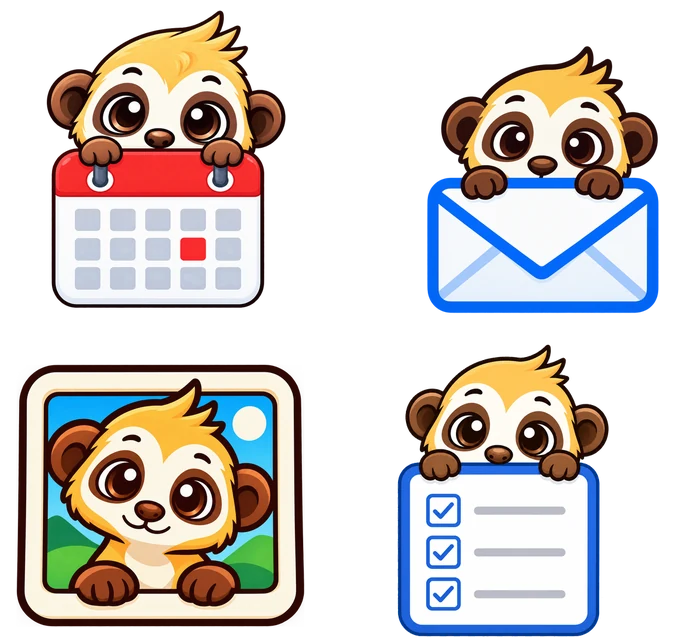
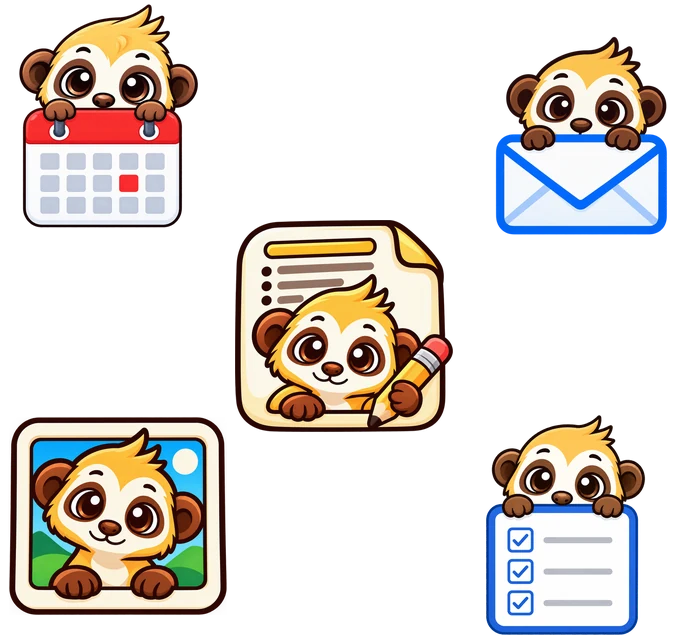
Adds meerpad

diff --git a/public/index.html b/public/index.html
@@ -4,7 +4,7 @@
   <meta charset="utf-8" />
   <meta name="viewport" content="width=device-width, initial-scale=1, viewport-fit=cover" />
   <title>meerverse: tools for people who have too much of everything</title>
-  <meta name="description" content="meerverse is the meer* family of open-source, self-hostable apps: meercal for calendars, meerail for mail, meerato for tasks and meerpic for photos, each keeping your data in PostgreSQL. meerink and meerpad are on the way." />
+  <meta name="description" content="meerverse is the meer* family of open-source, self-hostable apps: meercal for calendars, meerail for mail, meerato for tasks, meerpic for photos and meerpad for notes, each keeping your data in PostgreSQL. meerink is on the way." />
   <meta name="theme-color" content="#2185d0" />
   <link rel="canonical" href="https://meerverse.com/" />
   <link rel="icon" type="image/png" sizes="32x32" href="/img/brand-32.png" />
@@ -16,7 +16,7 @@
   <meta property="og:site_name" content="meerverse" />
   <meta property="og:url" content="https://meerverse.com/" />
   <meta property="og:title" content="meerverse: tools for people who have too much of everything" />
-  <meta property="og:description" content="Mail, calendar, tasks and photos from one family of open-source meerkats. Everything in PostgreSQL, everything on GitHub." />
+  <meta property="og:description" content="Mail, calendar, tasks, photos and notes from one family of open-source meerkats. Everything in PostgreSQL, everything on GitHub." />
   <meta property="og:image" content="https://meerverse.com/img/og.jpg" />
   <meta property="og:image:width" content="1200" />
   <meta property="og:image:height" content="630" />
@@ -89,6 +89,20 @@
           "license": "https://www.gnu.org/licenses/agpl-3.0.html",
           "sameAs": ["https://github.com/ribalba/meerpic"]
         }
+      },
+      {
+        "@type": "ListItem",
+        "position": 5,
+        "item": {
+          "@type": "SoftwareApplication",
+          "name": "meerpad",
+          "url": "https://meerpad.com/",
+          "description": "A notes app built for hardcore users with a lot of projects: a workspace per project, each a tree of pages built from blocks and databases, text written in meerail's Markdown, fast search across thousands of pages, offline-first sync across devices, share links to read or to edit, and publishing any page as a website on your own domain. Hosted at meerpad.com or self-hosted.",
+          "applicationCategory": "ProductivityApplication",
+          "isAccessibleForFree": true,
+          "license": "https://www.gnu.org/licenses/agpl-3.0.html",
+          "sameAs": ["https://github.com/ribalba/meerpad"]
+        }
       }
     ]
   }
@@ -125,12 +139,13 @@
     <!-- Hero -->
     <section class="landing-hero">
       <img src="/img/family.webp" width="680" height="640" class="landing-logo is-family"
-           alt="Four cartoon meerkats: one peeking over a calendar, one over an envelope, one out of a picture frame and one over a checklist." />
+           alt="Five cartoon meerkats: one peeking over a calendar, one over an envelope, one out of a picture frame, one over a checklist and, in the middle, one holding a pencil in front of a page of notes." />
       <div class="landing-hero-copy">
         <h1 class="landing-title">Tools for people who have too much of&nbsp;everything.</h1>
         <p class="landing-subtitle">
           Twenty calendars, a mailbox ten years deep, a to-do list for every part
-          of your life and a photo library too big for any photo app. The meer* apps
+          of your life, a photo library too big for any photo app and notes in more
+          places than you can remember. The meer* apps
           are a family of open-source programs, one for each of those, built for
           the person the defaults stopped working for. Everything lands in
           PostgreSQL, where you can query it. Each app stands on its own, and
@@ -147,7 +162,7 @@
     <section id="apps" class="landing-features">
       <h2 class="landing-section-title">The apps</h2>
       <p class="landing-section-lede">
-        Four programs you can run today. Each has its own site and its own
+        Five programs you can run today. Each has its own site and its own
         repository, and all of them are open source under the AGPL.
       </p>
 
@@ -270,6 +285,39 @@
             </div>
           </div>
         </article>
+        <article class="landing-card landing-app">
+          <div class="landing-card-body">
+            <div class="landing-app-head">
+              <img class="landing-app-logo" src="/img/apps/meerpad.webp" width="192" height="187" alt="" />
+              <div>
+                <span class="landing-app-kind">Notes</span>
+                <h3>meerpad <span class="landing-badge">New</span></h3>
+              </div>
+            </div>
+            <p class="landing-app-tagline">A notes app built for hardcore users with a lot of projects.</p>
+            <p>
+              Made for people who write everything down, for every project they
+              run. Each project gets a workspace, each workspace a tree of pages
+              as deep as the work needs, and a page holds text, to-dos, tables,
+              files and whole databases, written in the same Markdown as meerail.
+              Thousands of pages stay fast and searchable, even offline: a copy of
+              all of it lives on your device and syncs when you are back. Share a
+              page by link to read or to edit, publish any page as a website on
+              your own domain or at <em>name</em>.meerpad.com, and bring an
+              existing workspace along from a Markdown and CSV export, databases
+              and files included.
+            </p>
+            <div class="landing-chips">
+              <span class="landing-chip"><i class="sitemap icon"></i>A workspace per project</span>
+              <span class="landing-chip"><i class="search icon"></i>Thousands of pages, searchable</span>
+              <span class="landing-chip"><i class="globe icon"></i>Publish as a website</span>
+            </div>
+            <div class="landing-app-links">
+              <a href="https://meerpad.com" target="_blank" rel="noopener"><i class="globe icon"></i>meerpad.com</a>
+              <a href="https://github.com/ribalba/meerpad" target="_blank" rel="noopener"><i class="github icon"></i>ribalba/meerpad</a>
+            </div>
+          </div>
+        </article>
       </div>
 
       <!-- One wide screenshot per app, as a tour. The controls are built by the
@@ -316,6 +364,21 @@
                       data-caption="&lt;strong&gt;meerato, all tasks.&lt;/strong&gt; Buckets for work, home, the sports club and the kids' school down the side; every task with its status and bucket, subtasks nested under their parent, and a quick-add bar that takes a whole task in one line.">
                 <img src="/img/screenshots/meerato-overview.webp" width="1355" height="847" loading="lazy" decoding="async"
                      alt="The meerato task list: status and bucket filters in the sidebar, and a list of tasks with nested subtasks, each tagged with a status and a bucket." />
+                <span class="landing-shot-zoom"><i class="expand icon"></i></span>
+              </button>
+            </li>
+
+            <li class="landing-slide" data-label="meerpad"
+                data-note="meerpad: a page of blocks in the Farm workspace, the page tree beside it and one search bar for every page and its text.">
+              <button type="button" class="landing-shot-btn"
+                      data-full="/img/screenshots/meerpad-page.webp"
+                      data-full-dark="/img/screenshots/meerpad-page-dark.webp"
+                      data-caption="&lt;strong&gt;meerpad, a page.&lt;/strong&gt; Workspaces for work, the house and the farm, each a tree of pages; a page of blocks with to-dos, a callout, Markdown written as you type it and a highlighted code block, and one search bar across the top for every page and its text.">
+                <picture>
+                  <source srcset="/img/screenshots/meerpad-page-dark.webp" media="(prefers-color-scheme: dark)" />
+                  <img src="/img/screenshots/meerpad-page.webp" width="2880" height="1800" loading="lazy" decoding="async"
+                       alt="The meerpad window: workspaces and a page tree in the sidebar, and a page with a cover, a heading, to-dos, a callout and a code block." />
+                </picture>
                 <span class="landing-shot-zoom"><i class="expand icon"></i></span>
               </button>
             </li>
@@ -412,7 +475,7 @@
             <div class="landing-card-icon"><i class="database icon"></i></div>
             <h3>Postgres as the store, not a cache</h3>
             <p>
-              Mail, events, tasks and photo metadata live in a real PostgreSQL
+              Mail, events, tasks, notes and photo metadata live in a real PostgreSQL
               database rather than a format of the app's own. <code>psql</code>
               can answer questions no app exposes, and so can an AI tool you
               point at it.
@@ -490,8 +553,8 @@
             <p>
               All of it is AGPL and on GitHub, and the install is Docker Compose:
               for meerail and meercal, one script that asks what it needs and
-              pulls the published images. meerato is also a hosted service, if
-              you would rather not run anything at all.
+              pulls the published images. meerato and meerpad are also hosted
+              services, if you would rather not run anything at all.
             </p>
           </div>
         </article>
@@ -502,7 +565,7 @@
     <section id="soon" class="landing-features">
       <h2 class="landing-section-title">Coming soon</h2>
       <p class="landing-section-lede">
-        Two more meerkats are on their way.
+        One more meerkat is on its way.
       </p>
 
       <div class="landing-apps">
@@ -534,37 +597,14 @@
             </div>
           </div>
         </article>
-
-        <article class="landing-card landing-app is-soon">
-          <div class="landing-card-body">
-            <div class="landing-app-head">
-              <img class="landing-app-logo" src="/img/apps/meerpad.webp" width="192" height="187" alt="" />
-              <div>
-                <span class="landing-app-kind">Writing</span>
-                <h3>meerpad <span class="landing-badge is-soon">Coming soon</span></h3>
-              </div>
-            </div>
-            <p class="landing-app-tagline">The writing tool you always wanted.</p>
-            <p>
-              For the quick note, the long document and everything in between,
-              in one place. It comes from the family that keeps your words in a
-              database you can query and lets you do everything from the
-              keyboard.
-            </p>
-            <div class="landing-app-links">
-              <a href="https://meerpad.com" target="_blank" rel="noopener"><i class="globe icon"></i>meerpad.com</a>
-              <a href="https://github.com/ribalba/meerpad" target="_blank" rel="noopener"><i class="github icon"></i>ribalba/meerpad</a>
-            </div>
-          </div>
-        </article>
       </div>
     </section>
 
     <footer class="landing-footer">
       <p>
         <strong>meerverse</strong> is the meer* universe: a family of
-        open-source meerkats for mail, calendars, tasks and photos, with a
-        network and a writing tool on the way.
+        open-source meerkats for mail, calendars, tasks, photos and notes,
+        with a network on the way.
       </p>
       <p class="landing-footer-apps">
         <a href="https://meercal.com" target="_blank" rel="noopener"><img src="/img/apps/meercal.webp" width="155" height="192" alt="" />meercal</a>

diff --git a/tools/build_assets.py b/tools/build_assets.py
@@ -3,8 +3,9 @@
 
 The meerverse site owns no artwork of its own yet: every logo and screenshot
 belongs to one of the apps, and this pulls them in from checkouts that sit next
-to this repo (../meercal, ../meerail, ../meerato, ../meeroto, ../meerink), so a
+to this repo (../meercal, ../meerail, ../meerato, ../meerpic, ../meerink), so a
 new logo or a re-shot screenshot there is one command away from being here.
+meerpad joined them (../meerpad).
 
     python3 tools/build_assets.py
 
@@ -29,15 +30,14 @@ OUT = ROOT / "public" / "img"
 # Which picture stands for each app: the small in-app logo, the meerkat peeking
 # over the thing the app is about, not the full-body one some websites use in
 # their hero. meerink's logo-square sits on a coloured tile, so its plain logo
-# is used instead. meerpad has no checkout to take its logo from yet, so its
-# source lives in this repo (an absolute path wins over CODE when joined).
+# is used instead.
 LOGOS = {
     "meercal": "meercal/website/public/img/logo-square.png",
     "meerail": "meerail/app/static/img/logo-square.png",
     "meerato": "meerato/app/static/logo-512.png",
-    "meerpic": "meeroto/app/static/img/logo.png",
+    "meerpic": "meerpic/app/static/img/logo.png",
     "meerink": "meerink/app/static/img/logo.png",
-    "meerpad": ROOT / "assets" / "meerpad.png",
+    "meerpad": "meerpad/app/static/img/logo.png",
 }
 
 # (output name, source, dark source or None). Screenshots are 2880x1800 in the
@@ -47,6 +47,8 @@ SHOTS = [
      "meercal/website/public/img/screenshots/ribbon-dark.png"),
     ("meerail-inbox", "meerail/website/public/img/screenshots/inbox.png",
      "meerail/website/public/img/screenshots/inbox-dark.png"),
+    ("meerpad-page", "meerpad/app/static/img/screenshots/page.png",
+     "meerpad/app/static/img/screenshots/page-dark.png"),
 ]
 MEERATO_SHOT = "meerato/app/static/img/screenshots/overview.webp"
 
@@ -88,18 +90,21 @@ def app_logos() -> None:
 
 
 def family() -> Image.Image:
-    """The four shipping apps' meerkats as one group, for the hero: two
-    staggered pairs, calendar and mail above, photos and tasks below."""
+    """The five shipping apps' meerkats as one group, for the hero: calendar and
+    mail above, photos and tasks below, and meerpad's in the middle, drawn last
+    so it sits in front. Sized and placed so no two of them touch."""
     w, h = 680, 640
     canvas = Image.new("RGBA", (w, h), (0, 0, 0, 0))
-    cal = fit_height(load(LOGOS["meercal"]), 300)
-    mail = fit_height(load(LOGOS["meerail"]), 270)
-    pic = fit_height(load(LOGOS["meerpic"]), 265)
-    todo = fit_height(load(LOGOS["meerato"]), 295)
-    canvas.alpha_composite(cal, (45, 10))
-    canvas.alpha_composite(mail, (w - mail.width - 20, 45))
-    canvas.alpha_composite(pic, (15, h - pic.height - 12))
-    canvas.alpha_composite(todo, (w - todo.width - 70, h - todo.height - 2))
+    cal = fit_height(load(LOGOS["meercal"]), 225)
+    mail = fit_height(load(LOGOS["meerail"]), 200)
+    pic = fit_height(load(LOGOS["meerpic"]), 200)
+    todo = fit_height(load(LOGOS["meerato"]), 222)
+    pad = fit_height(load(LOGOS["meerpad"]), 212)
+    canvas.alpha_composite(cal, (18, 4))
+    canvas.alpha_composite(mail, (w - mail.width - 12, 36))
+    canvas.alpha_composite(pic, (8, h - pic.height - 24))
+    canvas.alpha_composite(todo, (w - todo.width - 34, h - todo.height - 4))
+    canvas.alpha_composite(pad, ((w - pad.width) // 2 + 4, (h - pad.height) // 2 + 6))
     save_webp(canvas, OUT / "family.webp", quality=88)
     return canvas
 

diff --git a/README.md b/README.md
@@ -10,7 +10,7 @@ shows the whole family in one place.
 | meerato | Tasks | [meerato.com](https://meerato.com) | [ribalba/meerato](https://github.com/ribalba/meerato) |
 | meerpic | Photos | [meerpic.com](https://meerpic.com) | [ribalba/meerpic](https://github.com/ribalba/meerpic) |
 | meerink | Professional network (coming soon) | [meerink.com](https://meerink.com) | [ribalba/meerink](https://github.com/ribalba/meerink) |
-| meerpad | Writing (coming soon) | [meerpad.com](https://meerpad.com) | [ribalba/meerpad](https://github.com/ribalba/meerpad) |
+| meerpad | Notes | [meerpad.com](https://meerpad.com) | [ribalba/meerpad](https://github.com/ribalba/meerpad) |
 
 A static page, a stylesheet and some images, served by nginx. Nothing to
 build.
@@ -67,7 +67,7 @@ meercal's too, copied unchanged.
 
 Every picture on the page belongs to one of the apps. `tools/build_assets.py`
 pulls the logos and screenshots in from sibling checkouts (`../meercal`,
-`../meerail`, `../meerato`, `../meeroto`, `../meerink`) and writes WebP into
+`../meerail`, `../meerato`, `../meerpic`, `../meerink`, `../meerpad`) and writes WebP into
 `public/img/`:
 
 ```bash
@@ -75,13 +75,12 @@ python3 tools/build_assets.py      # needs Pillow
 ```
 
 Two of them are stand-ins until meerverse has artwork of its own: the hero
-(`img/family.webp`, the four shipping apps' meerkats composed into one group)
+(`img/family.webp`, the five shipping apps' meerkats composed into one group)
 and the brand mark and favicons (`img/brand*`, meerato's waving meerkat).
 
-meerpad has no checkout yet, so its logo source is kept here in
-`assets/meerpad.png` (trimmed to 512px, with the stray almost-transparent
-pixels around the edge cleared). Once a meerpad repo exists, point `LOGOS` in
-the script at it and delete the copy.
+meerpad's logo and screenshot now come from its own checkout like the others
+(`../meerpad/app/static/img/`). `assets/meerpad.png`, which stood in while there
+was no meerpad repo, is no longer read by anything.
 
 `public/llms.txt` is the same content in plain text for language models, and
 the page carries it again as schema.org data. Keep the three in step.
